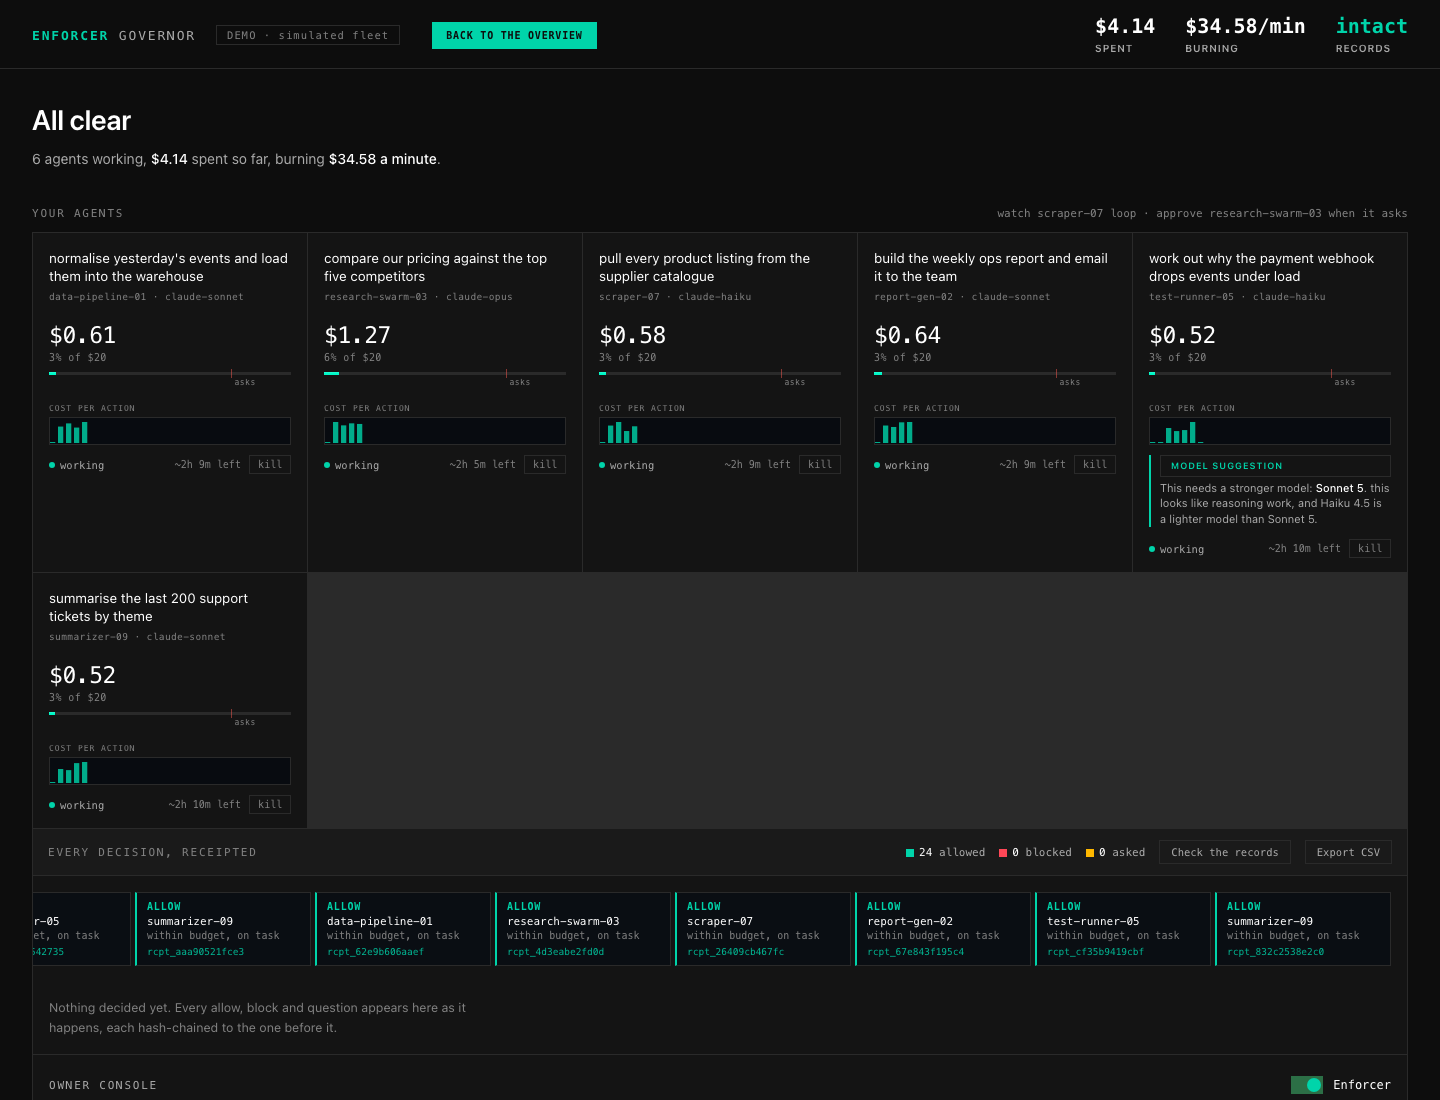
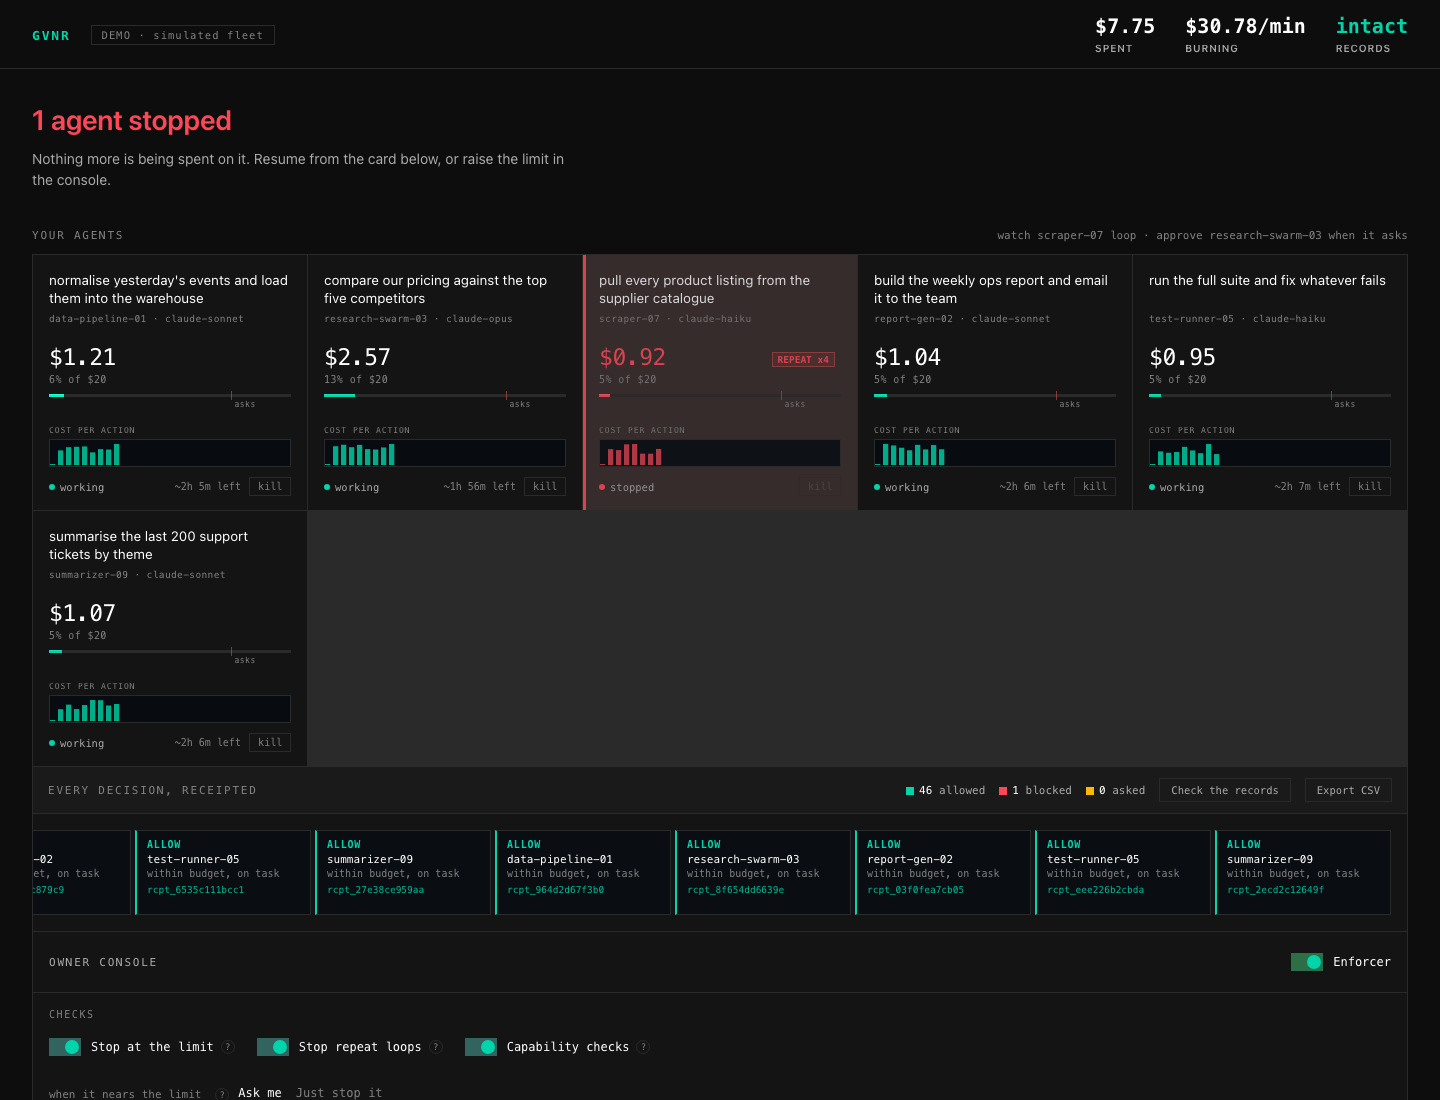
0.29.1: remove the model-for-the-job heuristic, and keep reroutes verifiable
The task-wording heuristic that suggested (adviseModel) or forced on the proxy
(enforceModel) a model one tier up or down is gone: from the policy engine, the
proxy, the Claude Code hook's message, the dashboard's switch, setting, card
note and demo cycle, the tests and the README. A config.json from an older
version that still carries either key loads cleanly and the keys are ignored.
Reroute, which finishes an out-of-budget agent on a fallback, stays.

A reroute left the chain broken on disk: the refusal that triggers it was saved
only when no reroute followed. It is now saved first. The receipts test covers
it and fails on the old ordering.

Also: the dashboard's "Nothing decided yet" line hid only when it was the
immediate sibling of the receipt strip, which it never was; the receipts test
throws instead of exiting, so a failing run no longer leaves its governor
running; and docs/dashboard.png is retaken from the current dashboard.

diff --git a/public/dashboard.html b/public/dashboard.html
@@ -55,7 +55,7 @@
     line-height:1.75;color:var(--dim);white-space:pre;}
   .csv-note{padding:0 16px 14px;font-size:11.5px;color:var(--faint);}
   .tape-empty{font-size:12.5px;line-height:1.6;color:var(--faint);padding:16px;max-width:62ch;}
-  .tape:not(:empty)+.tape-empty{display:none;}
+  .tape:not(:empty)~.tape-empty{display:none;}
   .tape:empty{min-height:0;padding:0;border:none;}
   .legend b{color:var(--ink);font-weight:500;font-variant-numeric:tabular-nums;}
   .lead{padding:22px 0 4px;} .lead h1{font-family:var(--serif);font-weight:400;font-size:clamp(21px,3vw,30px);line-height:1.14;max-width:26ch;} .lead p{color:var(--dim);font-size:14.5px;max-width:76ch;margin-top:9px;} .lead b{color:var(--ink);} .verbs .a{color:var(--allow);}.verbs .d{color:var(--deny);}.verbs .e{color:var(--esc);}
@@ -312,18 +312,6 @@
   .a-task{font-family:var(--serif);font-size:13.5px;line-height:1.34;color:var(--ink);
     display:-webkit-box;-webkit-line-clamp:2;-webkit-box-orient:vertical;overflow:hidden;min-height:2.68em;}
   .a-task.idle{color:var(--faint);font-style:italic;}
-  /* Model-vs-task mismatch. Advisory, so it reads as a note and never as an
-     alarm: a wrong downgrade costs more in bad work than it saves in tokens. */
-  .a-advice{display:none;margin:10px 16px 2px;font-size:11px;line-height:1.45;color:var(--dim);
-    border-left:2px solid var(--teal);padding-left:9px;}
-  .a-advice.show{display:block;}
-  /* Says which kind of thing it is, so it is never read as a limit warning. */
-  .a-advice .tag{display:block;font-family:var(--sans);font-size:9px;font-weight:600;
-    letter-spacing:.1em;text-transform:uppercase;color:var(--teal);margin-bottom:3px;}
-  .a-advice b{color:var(--ink);font-weight:600;}
-  .agent.reconsider .a-task,.agent.reconsider .a-advice,.agent.reconsider .amdl{
-    animation:reconsider .3s ease-out;}
-  @keyframes reconsider{from{opacity:.15;}to{opacity:1;}}
   .perm{font-family:var(--mono);font-size:9.5px;color:var(--faint);margin-left:6px;}
   /* Rate, shown next to the money it is turning into. Amber only when it is
      actually near the mark, so a glance at a calm fleet stays calm. */
@@ -335,7 +323,6 @@
     text-transform:uppercase;color:var(--esc);background:rgba(255,159,67,.15);
     border:1px solid rgba(255,159,67,.3);border-radius:0;padding:2px 8px;margin-left:6px;}
   .bill.show{display:inline-block;}
-  .a-advice b{color:var(--ink);font-weight:500;}
   .a-meta{font-family:var(--mono);font-size:9.5px;color:var(--faint);margin-top:6px;letter-spacing:.04em;
     white-space:nowrap;overflow:hidden;text-overflow:ellipsis;}
   /* Burn trace: what this agent has been spending, moment to moment. */
@@ -493,16 +480,10 @@
           <div class="swrow"><button class="sw on" id="swRules"><span class="knob"></span><span>Capability checks</span></button>
             <span class="f-k"><button class="q" type="button" aria-label="What is this?">?</button>
             <span class="qtip">Judges what an agent may DO, not just what it may spend. Piping the internet into a shell is refused outright. Deleting a whole tree, rewriting git history, reading or writing credentials, and publishing or deploying all stop and ask you first. Ordinary work passes untouched, and these fire even on a full budget, because a dangerous command is usually a cheap one.</span></span></div>
-          <div class="swrow"><button class="sw on" id="swModel"><span class="knob"></span><span>Match model to task</span></button>
-            <span class="f-k"><button class="q" type="button" aria-label="What is this?">?</button>
-            <span class="qtip">Reads the task the person typed and says when the model looks wrong for it, in either direction. Where the governor sits in front of a coding agent as a hook it can only advise, because a hook cannot change a model. On the API route it can switch it for you.</span></span></div>
         </div>
         <div class="segwrap">
         <div class="segrow"><span class="seg-lbl">when it nears the limit</span><span class="f-k"><button class="q" type="button" aria-label="What is this?">?</button><span class="qtip">At three quarters of the spend limit, either pause and ask you, or stop the agent outright without asking.</span></span>
           <div class="seg"><button class="seg-b on" id="segEsc">Ask me</button><button class="seg-b dm" id="segDeny">Just stop it</button></div>
-        </div>
-        <div class="segrow"><span class="seg-lbl">on a model mismatch</span><span class="f-k"><button class="q" type="button" aria-label="What is this?">?</button><span class="qtip">Tell me leaves the choice to you. Switch it rewrites the request to the cheaper model, and only ever downgrades. That works on the API route, where the governor owns the request.</span></span>
-          <div class="seg"><button class="seg-b on" id="segSay">Tell me</button><button class="seg-b dm" id="segSwap">Switch it</button></div>
         </div>
         </div>
 
@@ -629,7 +610,7 @@ window.h = s => String(s ?? '').replace(/[&<>"']/g, c => '&#' + c.charCodeAt(0) 
   const $=id=>document.getElementById(id), LIVE=window.__GOVERNOR_LIVE__===true;
   const fmt=n=>n>=1e6?(n/1e6).toFixed(2)+'M':n>=1e3?(n/1e3).toFixed(1)+'k':String(Math.round(n));
   const cards={}; let allow=0,deny=0,esc=0;
-  const policy={enforcer:true,budget:true,loop:true,soft:'escalate',advise:true,enforceModel:false};
+  const policy={enforcer:true,budget:true,loop:true,soft:'escalate'};
   let BURN=2;   // per-agent dollars a minute, mirrored from the server
   $('modeTag').textContent = LIVE?'LIVE · governing your agents':'DEMO · simulated fleet';
   if (LIVE) $('modeTag').classList.add('live');
@@ -859,7 +840,6 @@ window.h = s => String(s ?? '').replace(/[&<>"']/g, c => '&#' + c.charCodeAt(0) 
         <div class="meter"><div class="fill"></div><div class="softmark" style="left:${(soft||.75)*100}%"></div></div></div>
       <div class="sparklbl">cost per action</div>
       <div class="sparkwrap"><svg class="spark" viewBox="0 0 100 26" preserveAspectRatio="none" aria-hidden="true"><g></g></svg></div>
-      <div class="a-advice"></div>
       <div class="a-foot"><div class="a-status"><span class="st-dot"></span><span class="stxt">working</span></div><span class="rate"></span><span class="a-left"></span><button class="kill">kill</button></div>`;
     $('fleet').appendChild(el);
     const c={el,budget:budget||200000,soft:soft||.75};
@@ -873,7 +853,7 @@ window.h = s => String(s ?? '').replace(/[&<>"']/g, c => '&#' + c.charCodeAt(0) 
     };
     cards[id]=c; return c;
   }
-  function paint(id, {tokens,budget,status,model,task,loopStreak,advice,burn,billing}){
+  function paint(id, {tokens,budget,status,model,task,loopStreak,burn,billing}){
     const c=card(id,model,budget); if(budget)c.budget=budget;
     if(model)c.model=model;
     if(task && task!==c.task){ c.task=task; const t=c.el.querySelector('.a-task'); t.textContent=task; t.classList.remove('idle'); }
@@ -894,14 +874,6 @@ window.h = s => String(s ?? '').replace(/[&<>"']/g, c => '&#' + c.charCodeAt(0) 
       }).join('');
     }
     c.el.querySelector('.amdl').textContent=c.model?' · '+c.model:'';
-    // Advice arrives on decisions and disappears when the mismatch is gone.
-    if(advice!==undefined){
-      const adv=c.el.querySelector('.a-advice');
-      if(advice){ adv.innerHTML='<span class="tag">Model suggestion</span>'
-        +(advice.cheaper?'A cheaper model would do: ':'This needs a stronger model: ')
-        +'<b>'+advice.label+'</b>. '+advice.why+'.'; adv.classList.add('show'); }
-      else adv.classList.remove('show');
-    }
     const pct=Math.min(100,tokens/c.budget*100);
     c.el.classList.remove('warn','esc','grounded','free');
     let cls='', txt='working';
@@ -961,11 +933,7 @@ window.h = s => String(s ?? '').replace(/[&<>"']/g, c => '&#' + c.charCodeAt(0) 
   function bump(v){ if(v==='allow')allow++;else if(v==='deny')deny++;else if(v==='escalate')esc++; $('mAllow').textContent=allow;$('mDeny').textContent=deny;$('mEsc').textContent=esc; }
   function onDecision(d){
     if(d.verdict==='gap'){ chip('gap',d.agent.id||d.agent,d.reason,null,null); paint(d.agent.id||d.agent,d.agent); return; }
-    // Pass advice through as-is. Coercing a missing key to null told paint to
-    // CLEAR the advice, so the once-a-second decisions wiped a recommendation
-    // a moment after it appeared. The server always sends an explicit null
-    // when it has no opinion, so clearing still happens when it should.
-    const a=d.agent; paint(a.id,{...a,model:d.model,task:d.task,advice:d.advice,billing:d.billing||''});
+    const a=d.agent; paint(a.id,{...a,model:d.model,task:d.task,billing:d.billing||''});
     chip(d.verdict,a.id,d.reason,d.receipt,d.entry&&d.entry.authority);
     bump(d.verdict);
     if(d.verdict==='escalate') openEsc(a);
@@ -1097,7 +1065,7 @@ window.h = s => String(s ?? '').replace(/[&<>"']/g, c => '&#' + c.charCodeAt(0) 
     catch{ spS.disabled=false; spS.textContent='Save these names'; }
   };
 
-  function pushConfig(){ if(!LIVE)return; fetch('/config',{method:'POST',headers:{'content-type':'application/json'},body:JSON.stringify({budgetOn:policy.budget,loopOn:policy.loop,softAction:policy.soft,adviseModel:policy.advise,enforceModel:policy.enforceModel})}).catch(()=>{}); }
+  function pushConfig(){ if(!LIVE)return; fetch('/config',{method:'POST',headers:{'content-type':'application/json'},body:JSON.stringify({budgetOn:policy.budget,loopOn:policy.loop,softAction:policy.soft})}).catch(()=>{}); }
   function syncSw(){ $('swBudget').classList.toggle('dis',!policy.enforcer); $('swLoop').classList.toggle('dis',!policy.enforcer); document.querySelectorAll('.seg').forEach(e=>e.style.opacity=policy.enforcer?'1':'.4'); document.body.classList.toggle('ungoverned',!policy.enforcer); }
   // Master switch. It MUST reach the server: turning it off only in the browser
   // leaves the screen saying "checks are off" while the governor keeps blocking,
@@ -1197,13 +1165,6 @@ window.h = s => String(s ?? '').replace(/[&<>"']/g, c => '&#' + c.charCodeAt(0) 
       : Math.max(+$(id).min, Math.min(+$(id).max, value));
     paintFader(id);
   }
-  $('swModel').onclick=()=>{ policy.advise=!policy.advise; $('swModel').classList.toggle('on',policy.advise);
-    if(!policy.advise){ policy.enforceModel=false; $('segSwap').classList.remove('on'); $('segSay').classList.add('on'); }
-    pushConfig(); };
-  // "Switch it" only does anything on the proxy path, where we own the request.
-  // A coding-agent hook cannot change the model, so on that route it stays advice.
-  $('segSay').onclick=()=>{policy.enforceModel=false;$('segSay').classList.add('on');$('segSwap').classList.remove('on');pushConfig();};
-  $('segSwap').onclick=()=>{policy.enforceModel=true;$('segSwap').classList.add('on');$('segSay').classList.remove('on');pushConfig();};
 
   $('verifyBtn').onclick=async()=>{ const b=$('verifyBtn'); b.textContent='checking...';
     if(LIVE){ try{ const r=await(await fetch('/verify')).json(); $('mChain').innerHTML=r.ok?`<span class="chainok">all ${r.receipts} match</span>`:`<span class="chainbad">do not match</span>`; b.textContent=r.ok?`All ${r.receipts} records check out`:'Records do not match'; }catch{ b.textContent='governor offline'; } }
@@ -1264,9 +1225,6 @@ window.h = s => String(s ?? '').replace(/[&<>"']/g, c => '&#' + c.charCodeAt(0) 
         mb.classList.toggle('esc', c.fleetBurnLimit>0 && c.fleetBurn>=c.fleetBurnLimit*0.6);
         fb.style.color = (c.fleetBurnLimit>0 && c.fleetBurn>=c.fleetBurnLimit*0.6) ? 'var(--esc)' : '';
       }
-      if(typeof c.adviseModel==='boolean'){ policy.advise=c.adviseModel; $('swModel').classList.toggle('on',c.adviseModel); }
-      if(typeof c.enforceModel==='boolean'){ policy.enforceModel=c.enforceModel;
-        $('segSwap').classList.toggle('on',c.enforceModel); $('segSay').classList.toggle('on',!c.enforceModel); }
       if(c.softAction){ policy.soft=c.softAction; $('segEsc').classList.toggle('on',c.softAction==='escalate'); $('segDeny').classList.toggle('on',c.softAction==='deny'); }
       if(c.models&&Object.keys(c.models).length){ MODELS=c.models; reKeys(); buildModelSelect(); }
       if(c.model&&MODELS[c.model]) modelKey=c.model;
@@ -1375,37 +1333,6 @@ window.__runDemo = (paint, onDecision, getPolicy, wire) => {
     out.scrollIntoView({block:'nearest',behavior:'smooth'});
   };
 
-  // The model check is the feature people do not know they want, and it was
-  // invisible here because the demo fleet never changed what it was doing.
-  // test-runner-05 now cycles through real work, and the advice follows the
-  // task rather than being pinned to the card: mechanical work on a top model
-  // asks to come down, reasoning work on a light one asks to go up, and
-  // ordinary work gets no opinion at all. That last state matters most: it is
-  // the proof this stays quiet unless it is sure.
-  const CYCLE=[
-    { task:"run the full suite and fix whatever fails", model:'claude-opus',
-      advice:{cheaper:true,  label:'Sonnet 5', why:'this looks like mechanical work, and Opus 5 costs 2.5x Sonnet 5'} },
-    { task:"work out why the payment webhook drops events under load", model:'claude-haiku',
-      advice:{cheaper:false, label:'Sonnet 5', why:'this looks like reasoning work, and Haiku 4.5 is a lighter model than Sonnet 5'} },
-    { task:"add the changelog entry for this release", model:'claude-sonnet',
-      advice:null },
-  ];
-  let cyc=0;
-  const advised=st['test-runner-05'];
-  setInterval(()=>{
-    if(!advised) return;
-    cyc=(cyc+1)%CYCLE.length;
-    const c=CYCLE[cyc];
-    advised.task=c.task; advised.model=c.model;
-    // The demo block does not share scope with the card registry, so find the
-    // element by the agent id it prints.
-    const el=[...document.querySelectorAll('.agent')].find(e=>e.querySelector('.aid')?.textContent==='test-runner-05');
-    if(el){ el.classList.add('reconsider'); setTimeout(()=>el.classList.remove('reconsider'),300); }
-    paint('test-runner-05',{tokens:advised.tokens,budget:advised.budget,status:advised.status,
-      model:c.model,task:c.task,loopStreak:advised.loopStreak||0,advice:c.advice});
-  }, 5200);
-  paint('test-runner-05',{tokens:0,budget:advised.budget,status:'active',
-    model:CYCLE[0].model,task:CYCLE[0].task,loopStreak:0,advice:CYCLE[0].advice});
   async function rcpt(a,verb,rule,authority){ const e={ts:Date.now(),agent:a.id,operator:'you@yourcompany.com',verdict:verb,reason:rule,tool:(a.lastTool||'Task'),model:a.model,tokens:Math.round(a.tokens)}; if(authority)e.authority=authority; const j=JSON.stringify(e); const h=await sha(prev+j); chain.push({j,h}); prev=h; return {verdict:verb,reason:rule,receipt:'rcpt_'+h.slice(0,12),agent:{id:a.id,tokens:Math.round(a.tokens),budget:a.budget,status:a.status,loopStreak:a.loopStreak||0},model:a.model,task:a.task,entry:e}; }
   function actionFor(a){ if(a.plan==='loop'&&a.tokens>a.budget*.32)return 'GET /page?id=42'; if(a.plan==='loop')return pick(['GET /list','parse','GET /page?id='+Math.floor(rand(1,40))]); return pick(STEADY); }
   async function step(a){

diff --git a/README.md b/README.md
@@ -8,7 +8,7 @@
 [![licence FSL-1.1-ALv2](https://img.shields.io/badge/licence-FSL--1.1--ALv2-blue)](LICENSE)
 [![node](https://img.shields.io/node/v/enforcer-governor)](https://nodejs.org)
 
-[![The Enforcer Governor dashboard: six agents working, spend per agent, a model suggestion, and the hash-chained receipt strip](docs/dashboard.png)](https://gvnr.io/console.html)
+[![The GVNR dashboard: six agents working, spend per agent against its cap, and the hash-chained receipt strip](docs/dashboard.png)](https://gvnr.io/console.html)
 
 *The dashboard, running the [live demo](https://gvnr.io/console.html) with a simulated fleet. Every agent shows what it was asked to do, what it has spent against its cap, and how long it can keep working. Each decision at the bottom is hash-chained to the one before it.*
 
@@ -25,7 +25,6 @@ AI agents burn tokens, and tokens are money. They get stuck in loops, repeat wor
 Every decision leaves a **tamper-evident receipt**, so you can always prove what your agents did and who approved what. Everything runs on your own computer with your own keys. Nothing is sent to us, ever.
 
 **See it in 10 seconds** (no install, simulated agents): **https://gvnr.io/console.html**
-
 
 Licensed [FSL-1.1-ALv2](LICENSE): free to run on your own agents, in production, commercially. Becomes Apache 2.0 two years after each release. Source-available rather than OSI open source, so it is described as free and self-hosted.
 ---
@@ -69,8 +68,6 @@ One thing: **Node.js**, a free tool most developers already have. Check by typin
 - **Errors per minute.** A rate-limited call fails cheaply; the retry after it does not. One report had 96% of attempts coming back rate limited while the wrapper kept paying for the rest.
 
 Each one **asks** rather than blocks, and asks once, so an overnight run stops and waits for you instead of dying or nagging.
-
-**The right model for the job.** Running the test suite on your most expensive model is the most common way to overspend without noticing. The governor reads the task the agent was actually given and says when the model looks mismatched, in either direction: a top-tier model on mechanical work, or a light one on work that needs reasoning. It moves one step at a time, along named tiers, and says nothing at all when the task is ambiguous, because a bad downgrade costs more in wasted work than it saves in tokens.
 
 It does **not** claim to detect hallucination. Nobody can do that reliably. It catches the mechanical waste that is actually detectable, and escalates the judgment calls to you.
 
@@ -195,8 +192,6 @@ Prices are the providers' published list rates. **On a flat subscription you are
 
 `softAction` is `"escalate"` (ask a human) or `"deny"` (auto-block at the soft cap). Everything is also flippable live from the dashboard switches.
 
-**Matching the model to the task** is on by default as advice (`adviseModel`). Set `enforceModel: true` and the governor will actually rewrite the request to the cheaper model on the proxy path, where it owns the request. It only ever downgrades: spending more of your money without asking is not its call. On the hook route it stays advice, because a hook cannot change the model, so the suggestion is surfaced to you and you switch yourself.
-
 ---
 
 ## When the budget runs out, finish somewhere cheaper
@@ -273,7 +268,6 @@ Everything is set from the **owner console** on the dashboard: one panel with a 
 - On subscription billing, dollar figures are estimates at list prices, labelled `est.`
 - The governor answers only this machine: loopback connections, local Host headers, and no cross-origin requests. Controls that loosen a limit (settings, approve, resume, remove) need a key that changes on every start and lives only in the dashboard page. That stops a stray `curl` or another website; an agent with a shell running as you could still load the dashboard and read the key. Against a deliberate adversary rather than an accident, run the agent in a container or VM and keep GVNR on the host.
 - If GVNR is not running, the hook lets actions through and says so, rather than breaking your agent.
-- Model matching is a heuristic on the wording of the task, so it stays quiet unless the signal is clear. It is advice everywhere except the proxy, where it can downgrade if you turn that on.
 
 ## Run the tests
 
